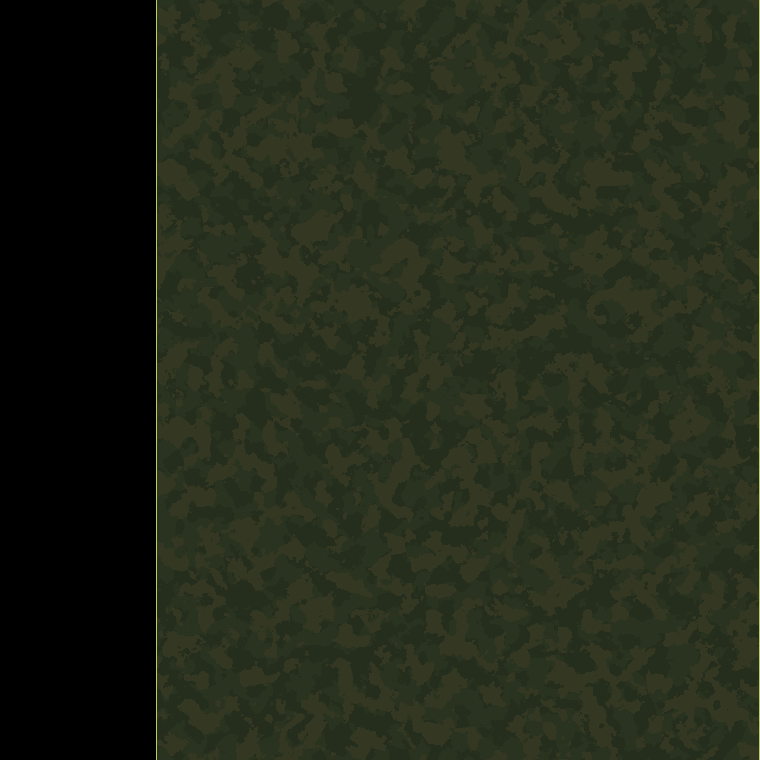
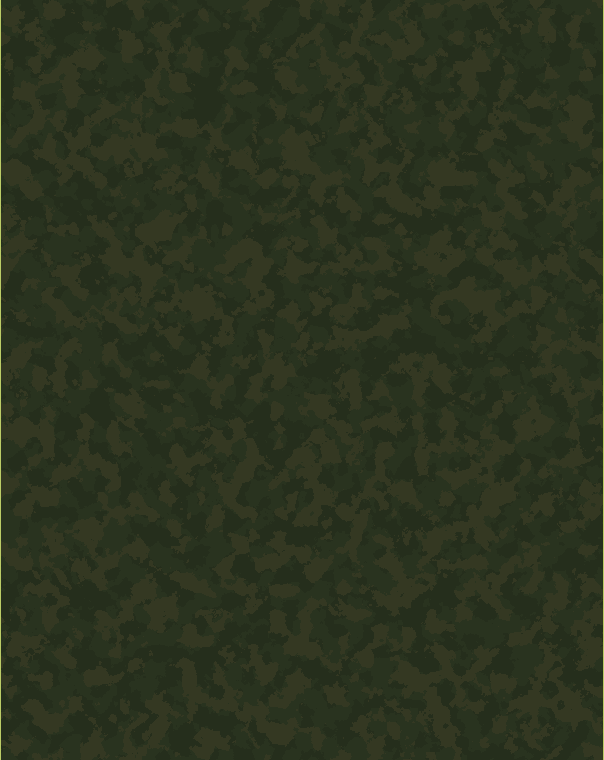
aesthethics and fixed leaderboard

Changed region(s): [[0.0, 0.0, 0.2086, 1.0]]

diff --git a/wwwroot/css/site.css b/wwwroot/css/site.css
@@ -15,7 +15,6 @@ html {
   box-shadow: 0 0 0 0.1rem white, 0 0 0 0.25rem #258cfb;
 }
 
-
 html {
     position: relative;
     min-height: 100%;
@@ -23,13 +22,13 @@ html {
 
 body {
     margin-bottom: 60px;
+    color: white;
 
-    /*
     background-image: url('/images/soldatbg.png');
-    background-size: cover; /* Adjusts the image to cover the entire background 
+    background-size: cover; 
     background-repeat: repeat;
     background-position: center;
-    */
+    
 }
 
 .form-floating > .form-control-plaintext::placeholder, .form-floating > .form-control::placeholder {
@@ -40,3 +39,109 @@ body {
 .form-floating > .form-control-plaintext:focus::placeholder, .form-floating > .form-control:focus::placeholder {
   text-align: start;
 }
+
+.container{
+    color: white;
+}
+
+.navbar {
+    background-color: transparent;
+}
+
+.navbar-brand {
+    color: white;
+}
+    .navbar-brand:hover {
+        color: #BBCC66;
+    }
+    .navbar-brand:active {
+        color: #BBCC66;
+    }
+
+.nav-link {
+    color: white;
+}
+    .nav-link:hover {
+        color: #BBCC66;
+    }
+
+    .nav-link.active {
+        color: #BBCC66;
+    }
+
+.navbar-toggler-icon {
+    filter: invert(100%); 
+    border: none;
+}
+
+.navbar-toggler {
+    border: none;
+}
+    .navbar-toggler:focus {
+        border-color: transparent !important;
+        box-shadow: 0 0 5px transparent;
+    }
+
+    .navbar-toggler:active {
+        border-color: #BBCC66 !important;
+        box-shadow: 0 0 5px #BBCC66;
+    }
+
+/* Leaderboard css */
+.leaderboardHeader {
+    font-size: 3em;
+    text-align: center;
+}
+
+.leaderboardDesc {
+    font-size: 1em;
+    text-align: center;
+    margin: 0px;
+}
+
+/* Style for the entire table */
+.table {
+    width: 100%;
+    border-collapse: collapse;
+    margin: 20px 0;
+}
+
+    /* Table headers */
+    .table thead {
+        background-color: transparent;
+        text-align: left;
+    }
+
+    .table th {
+        background-color: transparent;
+        padding: 10px;
+        font-weight: bold;
+        color: white;
+        border-bottom: 1px solid #BBCC66;
+    }
+
+    /* Table rows */
+    .table tbody tr {
+        background-color: transparent;
+        transition: background-color 0.3s ease;
+    }
+
+    /* Table data cells */
+    .table td {
+        background-color: transparent;
+        padding: 10px;
+        border-bottom: 1px solid #BBCC66;
+        color: white
+    }
+
+    /* Links inside the table */
+    .table a {
+        color: white;
+        text-decoration: none;
+    }
+
+        .table a:hover {
+            text-decoration: underline;
+            color: #BBCC66;
+        }
+

diff --git a/Views/Shared/_Layout.cshtml.css b/Views/Shared/_Layout.cshtml.css
@@ -8,19 +8,19 @@ a.navbar-brand {
 }
 
 a {
-  color: #0077cc;
+  color: white;
 }
 
 .btn-primary {
-  color: #fff;
-  background-color: #1b6ec2;
-  border-color: #1861ac;
+    color: #fff;
+    background-color: #1b6ec2;
+    border-color: #BBCC66;
 }
 
 .nav-pills .nav-link.active, .nav-pills .show > .nav-link {
-  color: #fff;
-  background-color: #1b6ec2;
-  border-color: #1861ac;
+    color: #BBCC66;
+    background-color: #1b6ec2;
+    border-color: #1861ac;
 }
 
 .border-top {

diff --git a/Controllers/CapsController.cs b/Controllers/CapsController.cs
@@ -22,7 +22,12 @@ namespace M79Climbing.Controllers
         // GET: Caps
         public async Task<IActionResult> Index()
         {
-            return View(await _context.Cap.ToListAsync());
+            var bestTimes = await _context.Cap
+                .GroupBy(c => c.Map)
+                .Select(g => g.OrderBy(c => c.Time).FirstOrDefault())
+                .ToListAsync();
+
+            return View(bestTimes);
         }
 
         // GET: Caps/Details/5

diff --git a/Controllers/MapDetailsController.cs b/Controllers/MapDetailsController.cs
@@ -22,8 +22,8 @@ namespace M79Climbing.Controllers
         public async Task<IActionResult> Index(string map)
         {
             var times = await _context.Cap
-                .Where(c => c.Map == map)
-                .OrderBy(c => c.Time)
+                .GroupBy(c => c.Name)
+                .Select(g => g.OrderBy(c => c.Time).FirstOrDefault())
                 .ToListAsync();
 
             ViewData["Map"] = map;

diff --git a/Controllers/NameDetailsController.cs b/Controllers/NameDetailsController.cs
@@ -20,7 +20,8 @@ namespace M79Climbing.Controllers
         {
             var times = await _context.Cap
                 .Where(c => c.Name == name)
-                .OrderBy(c => c.Time)
+                .OrderBy(c => c.Name) 
+                .ThenBy(c => c.Time)  
                 .ToListAsync();
 
             ViewData["Name"] = name;
